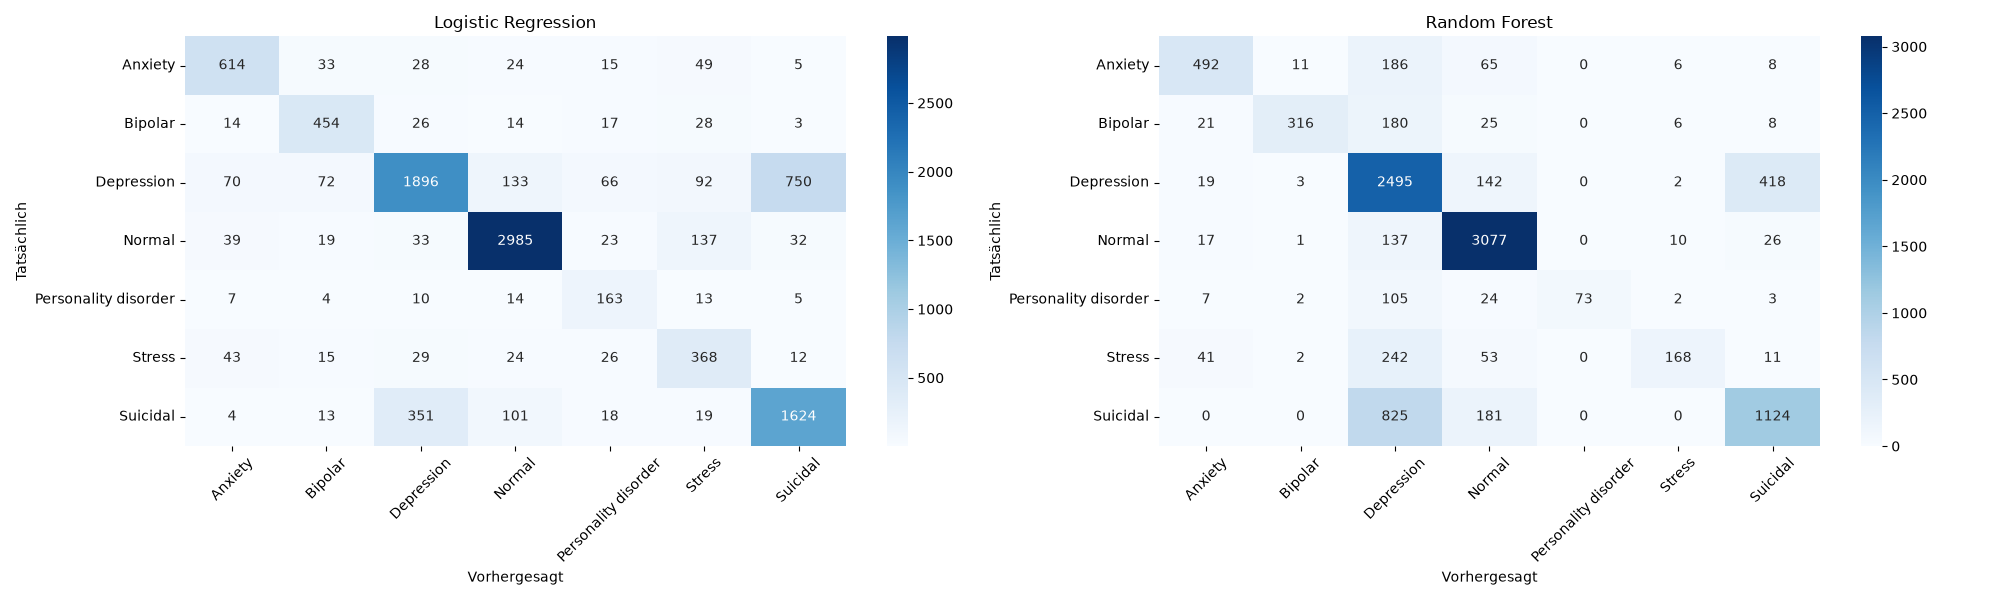
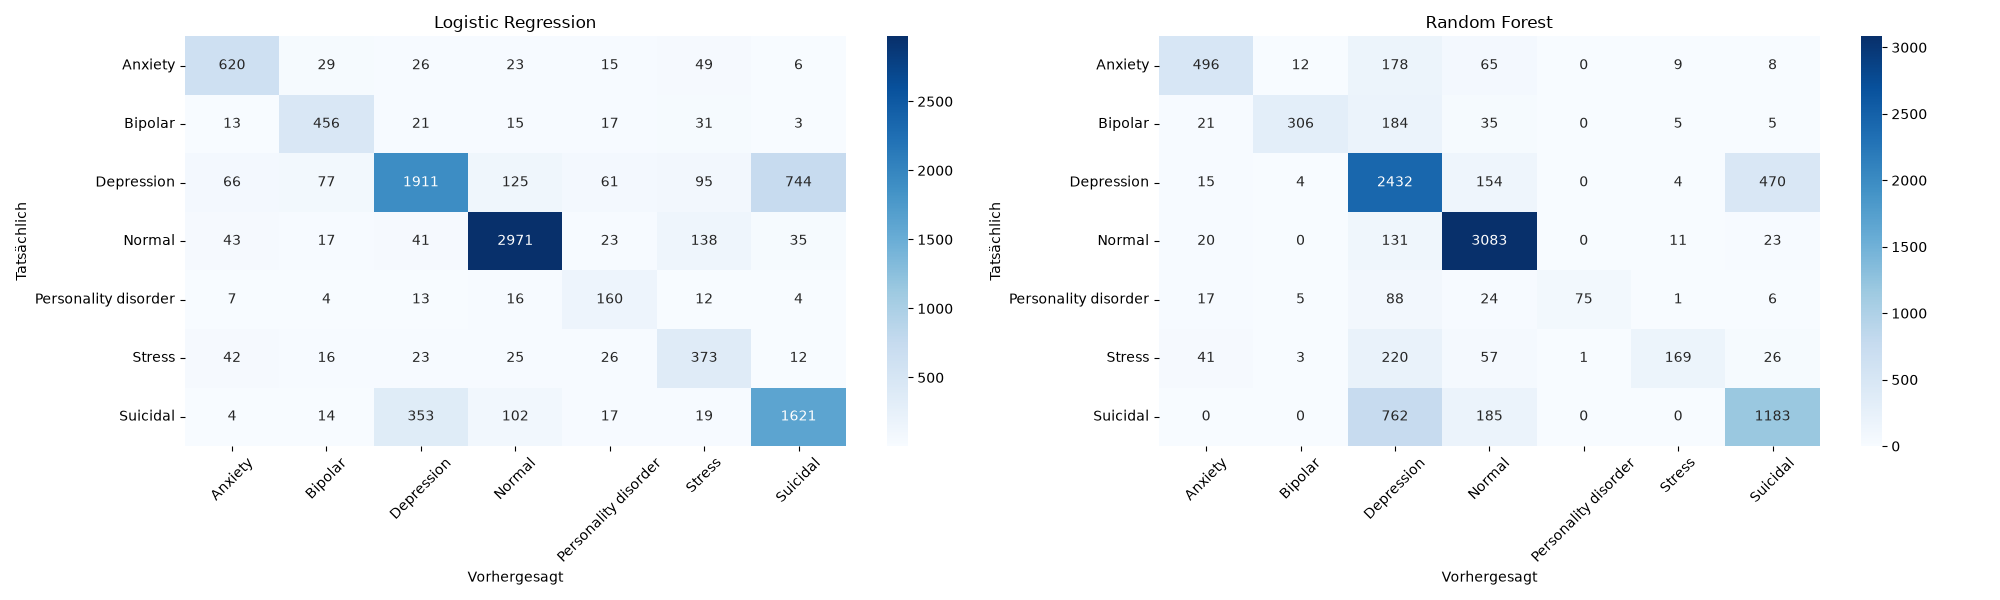
Refactor code structure for improved readability and maintainability

diff --git a/explorativ_data_analysis_copy.py b/explorativ_data_analysis_copy.py
@@ -539,3 +539,60 @@ def pronouns(df0:pd.DataFrame, statement_len_filter = 0):
     os.chdir(path)
     print(df_all_counts.head())
     return df_all_counts
+
+def depr_vs_suic(df0 : pd.DataFrame):
+    from sklearn.feature_extraction.text import TfidfVectorizer
+    import numpy as np
+    df = df0[df0['status'].isin(["Suicidal", "Depression"])].reset_index(drop=True)
+    tfidf = TfidfVectorizer(max_features=5000, stop_words='english')
+    X_train_tfidf = tfidf.fit_transform(df['statement'])
+    feature_names = tfidf.get_feature_names_out()
+    suicidal_idx = df.index[df['status'] == 'Suicidal'].tolist()
+    depression_idx = df.index[df['status'] == 'Depression'].tolist()
+    suicidal_means = np.asarray(X_train_tfidf[suicidal_idx].mean(axis=0)).flatten()
+    depression_means = np.asarray(X_train_tfidf[depression_idx].mean(axis=0)).flatten()
+    word_scores = pd.DataFrame({
+        'word': feature_names,
+        'suicidal_score': suicidal_means,
+        'depression_score': depression_means
+    })
+    word_scores['diff'] = word_scores['suicidal_score'] - word_scores['depression_score']
+    top_suicidal_words = word_scores.sort_values(by='diff', ascending=False).head(20)
+    top_depression_words = word_scores.sort_values(by='diff', ascending=True).head(20)
+    filtered = pd.concat([top_suicidal_words, top_depression_words], axis=0)
+    fig = plt.figure(figsize=(16,9))
+    sns.set_style("whitegrid")
+    ax = sns.scatterplot(
+        data=filtered, 
+        x="depression_score", 
+        y="suicidal_score", 
+        hue="diff", 
+        palette="coolwarm", 
+        s=120,
+        edgecolor='w',
+        linewidth=1
+    )
+    for i in range(filtered.shape[0]):
+        ax.text(
+            filtered.iloc[i]['depression_score'] + 0.001, # slightly shift text to the right
+            filtered.iloc[i]['suicidal_score'], 
+            filtered.iloc[i]['word'], 
+            horizontalalignment='left', 
+            size='medium', 
+            color='black', 
+            weight='semibold'
+        )
+    
+    # Add a diagonal reference line (where suicidal_score == depression_score)
+    max_val = max(filtered['depression_score'].max(), filtered['suicidal_score'].max())
+    ax.plot([0, max_val], [0, max_val], color='gray', linestyle='--', alpha=0.5)
+    
+    # Title and Labels
+    ax.set_title("Distinguishing Words: Suicidal vs. Depression TF-IDF Scores", fontsize=14, pad=15)
+    ax.set_xlabel("Depression Score (Mean TF-IDF)", fontsize=12)
+    ax.set_ylabel("Suicidal Score (Mean TF-IDF)", fontsize=12)
+    
+    # Save the chart safely
+    plt.savefig("suic_vs_depr.png", bbox_inches='tight')
+    
+    return top_suicidal_words, top_depression_words

diff --git a/feature_builder.py b/feature_builder.py
@@ -49,9 +49,9 @@ def create_all_features(df0: pd.DataFrame) -> pd.DataFrame:
     other_pr_list = ["you", "your", "yours", "yourself", "yourselves", "he", "she", "her", "hers", "herself", "him", "his", "himself", "they", "them", "their", "their's", "themselves"]
     
   
-    absolutist_words = ["always", "never", "completely", "nothing", "everything", "all", "ever", "everyone", "i know", "constantly", "every", "full", "done", "finish", "end"]
-    uncertain_words = ["maybe", "might", "could", "i think", "not sure", "weird", "can't"]
-    negative_words = ["die", "kill", "pain", "hurt", "cry", "sad", "alone", "lonely", "hate", "bad", "tired", "worse", "hopeless", "empty", "scared", "disturbed", "nuts", "dead", "psycho", "mad", "insane", "freak", "scary", "stress", "embarrassed", "embarrassing", "frustrating", "frustrated", "isolated", "isolation", "isolating", "mental", "ill", "brain", "forced", "demand", "abuse", "sexual", "sex", "life","meds","medications","medication"]
+    absolutist_words = ["always","anymore","want", "never", "completely", "nothing", "everything", "all", "ever", "everyone", "i know", "constantly", "every", "full", "done", "finish", "end"]
+    uncertain_words = ["maybe","don't", "might", "could", "i think", "not sure", "weird", "can't", "feel"]
+    negative_words = ["depression","work","school","fucking","die", "kill", "suicide","pain", "hurt", "cry", "sad", "alone", "lonely", "hate", "bad", "tired", "worse", "hopeless", "empty", "scared", "disturbed", "nuts", "dead", "psycho", "mad", "insane", "freak", "scary", "stress", "embarrassed", "embarrassing", "frustrating", "frustrated", "isolated", "isolation", "isolating", "mental", "ill", "brain", "forced", "demand", "abuse", "sexual", "sex", "life","meds","medications","medication"]
 
     all_target_words = self_pr_list + other_pr_list + absolutist_words + uncertain_words + negative_words
 

diff --git a/main.py b/main.py
@@ -24,6 +24,6 @@ def expl_data():
     #df0, all_target_words = fb.create_all_features(df0)
     #KMT.train_testdaten_split(df0)
     #eda.pronouns(df0)
-    eda.absolute_uncertain(df0,50)
+    print(eda.depr_vs_suic(df0))
 
 expl_data()